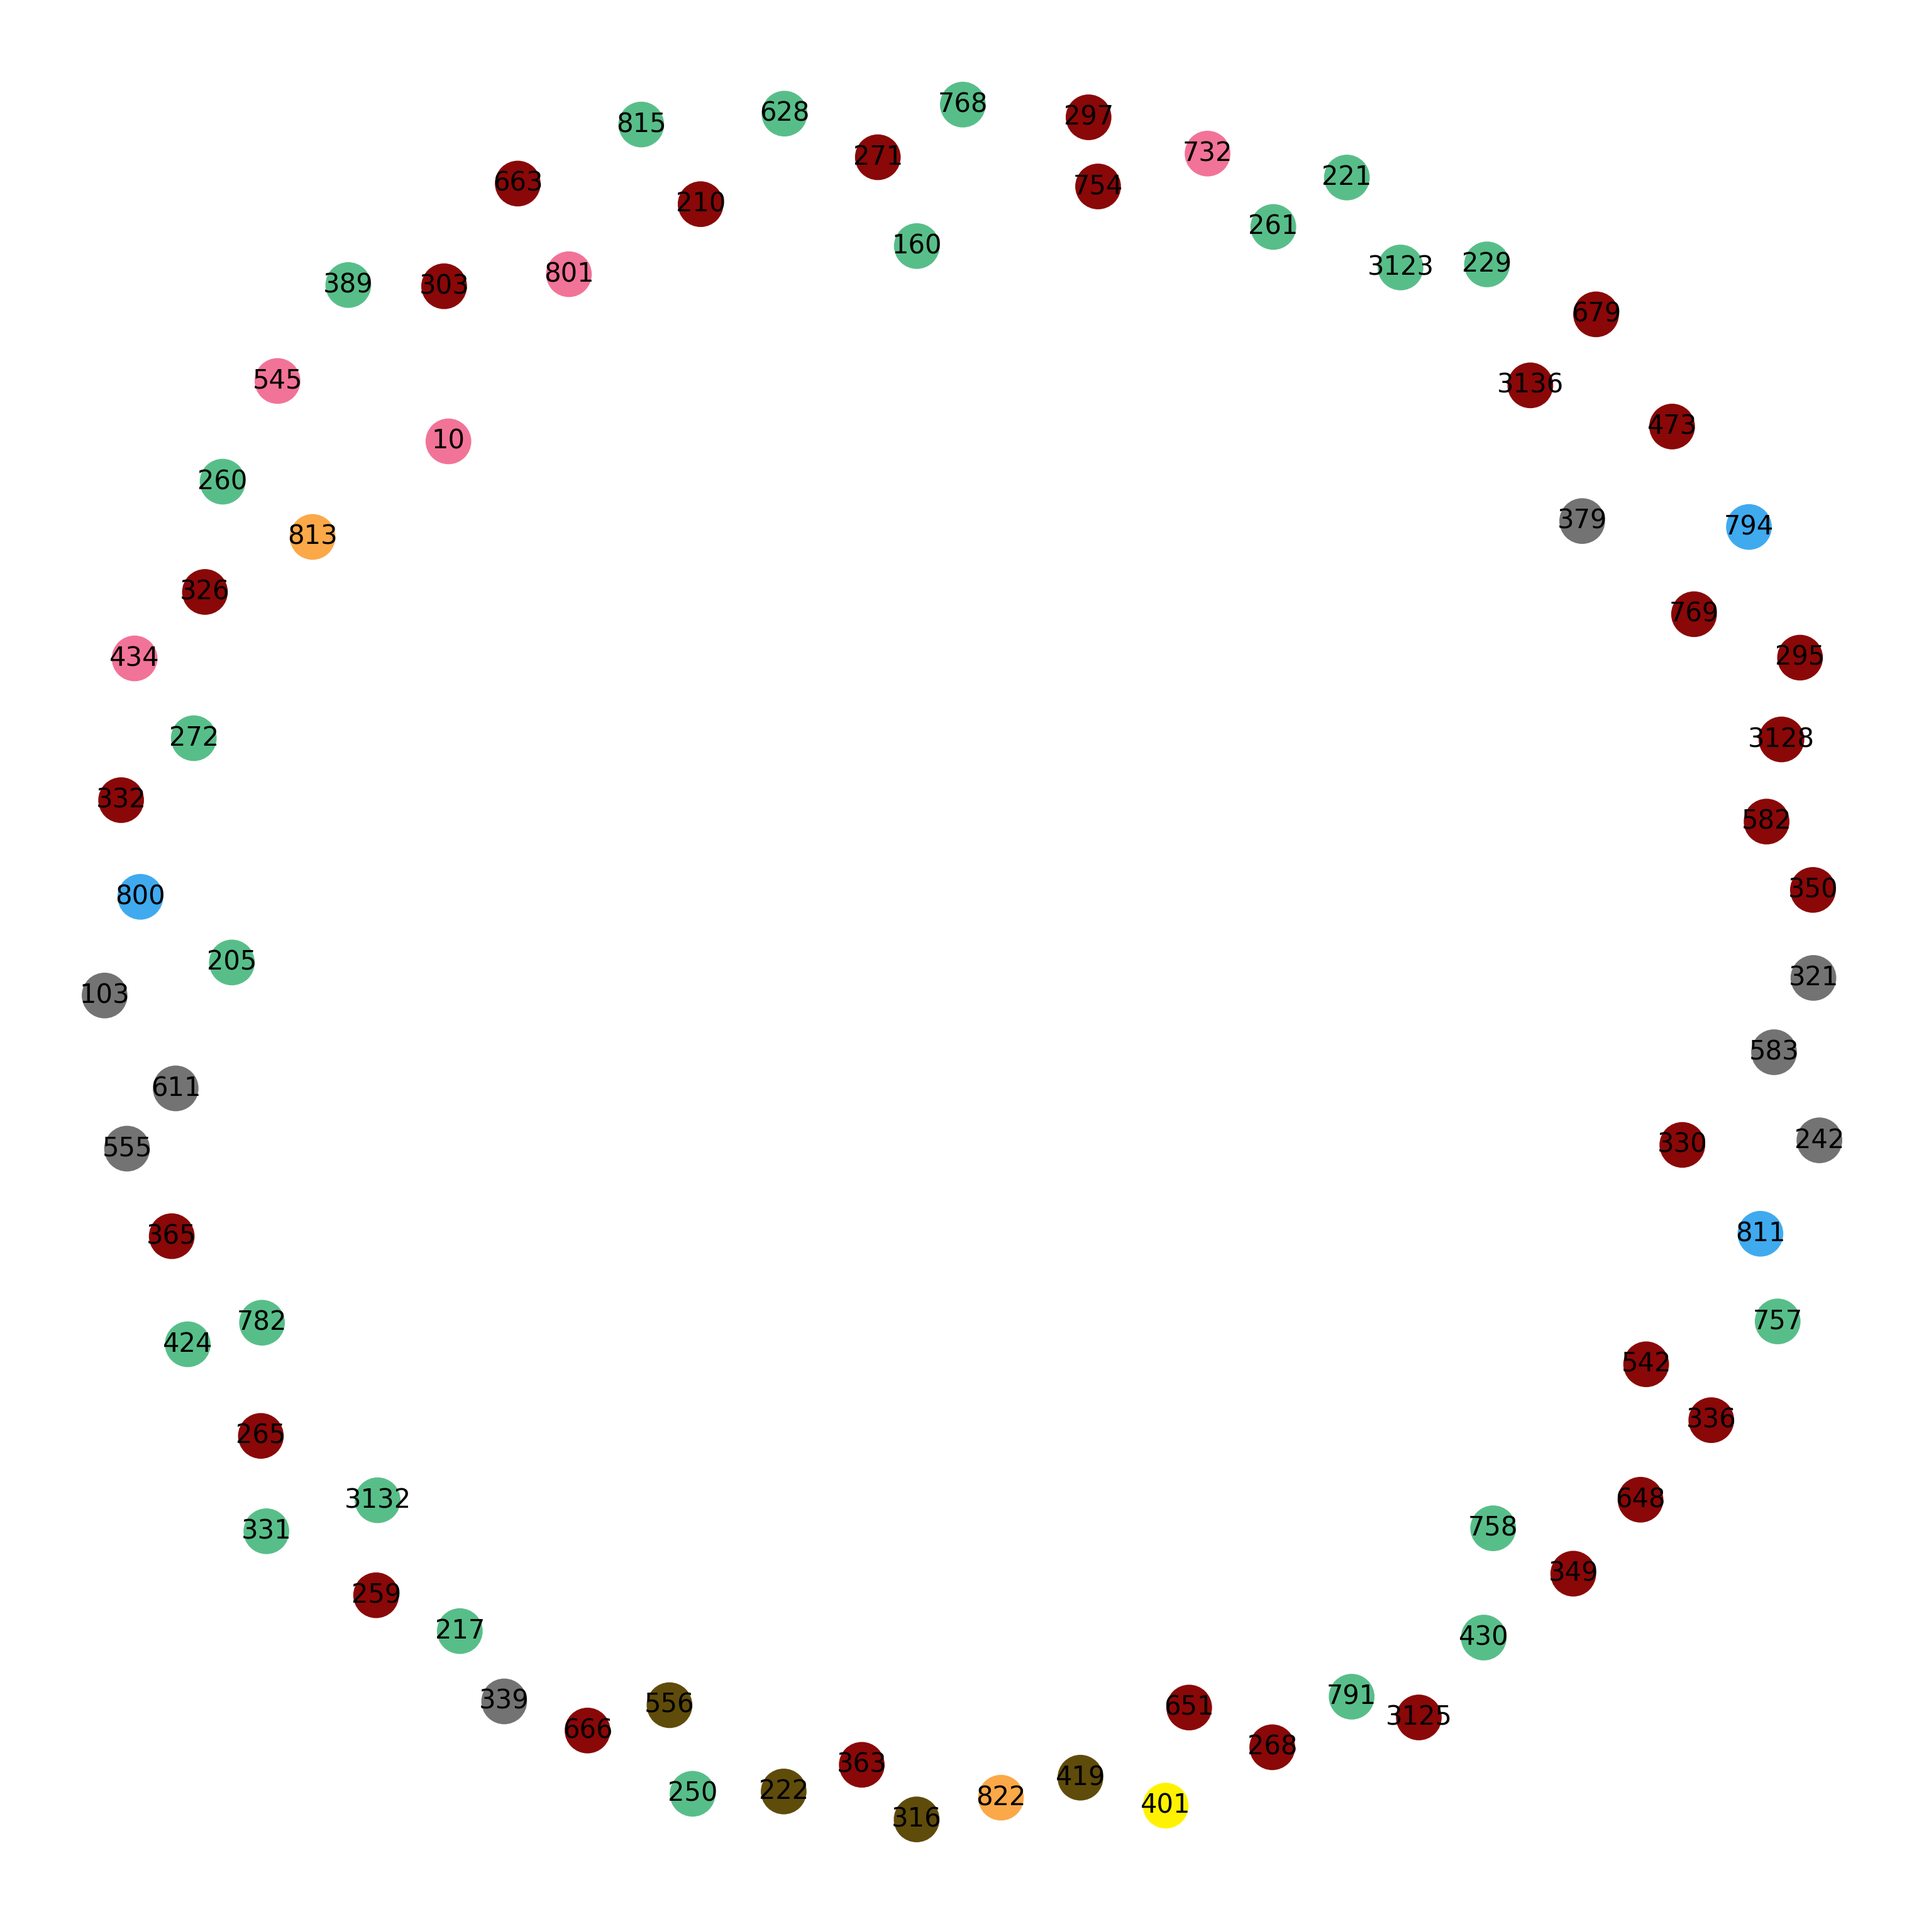
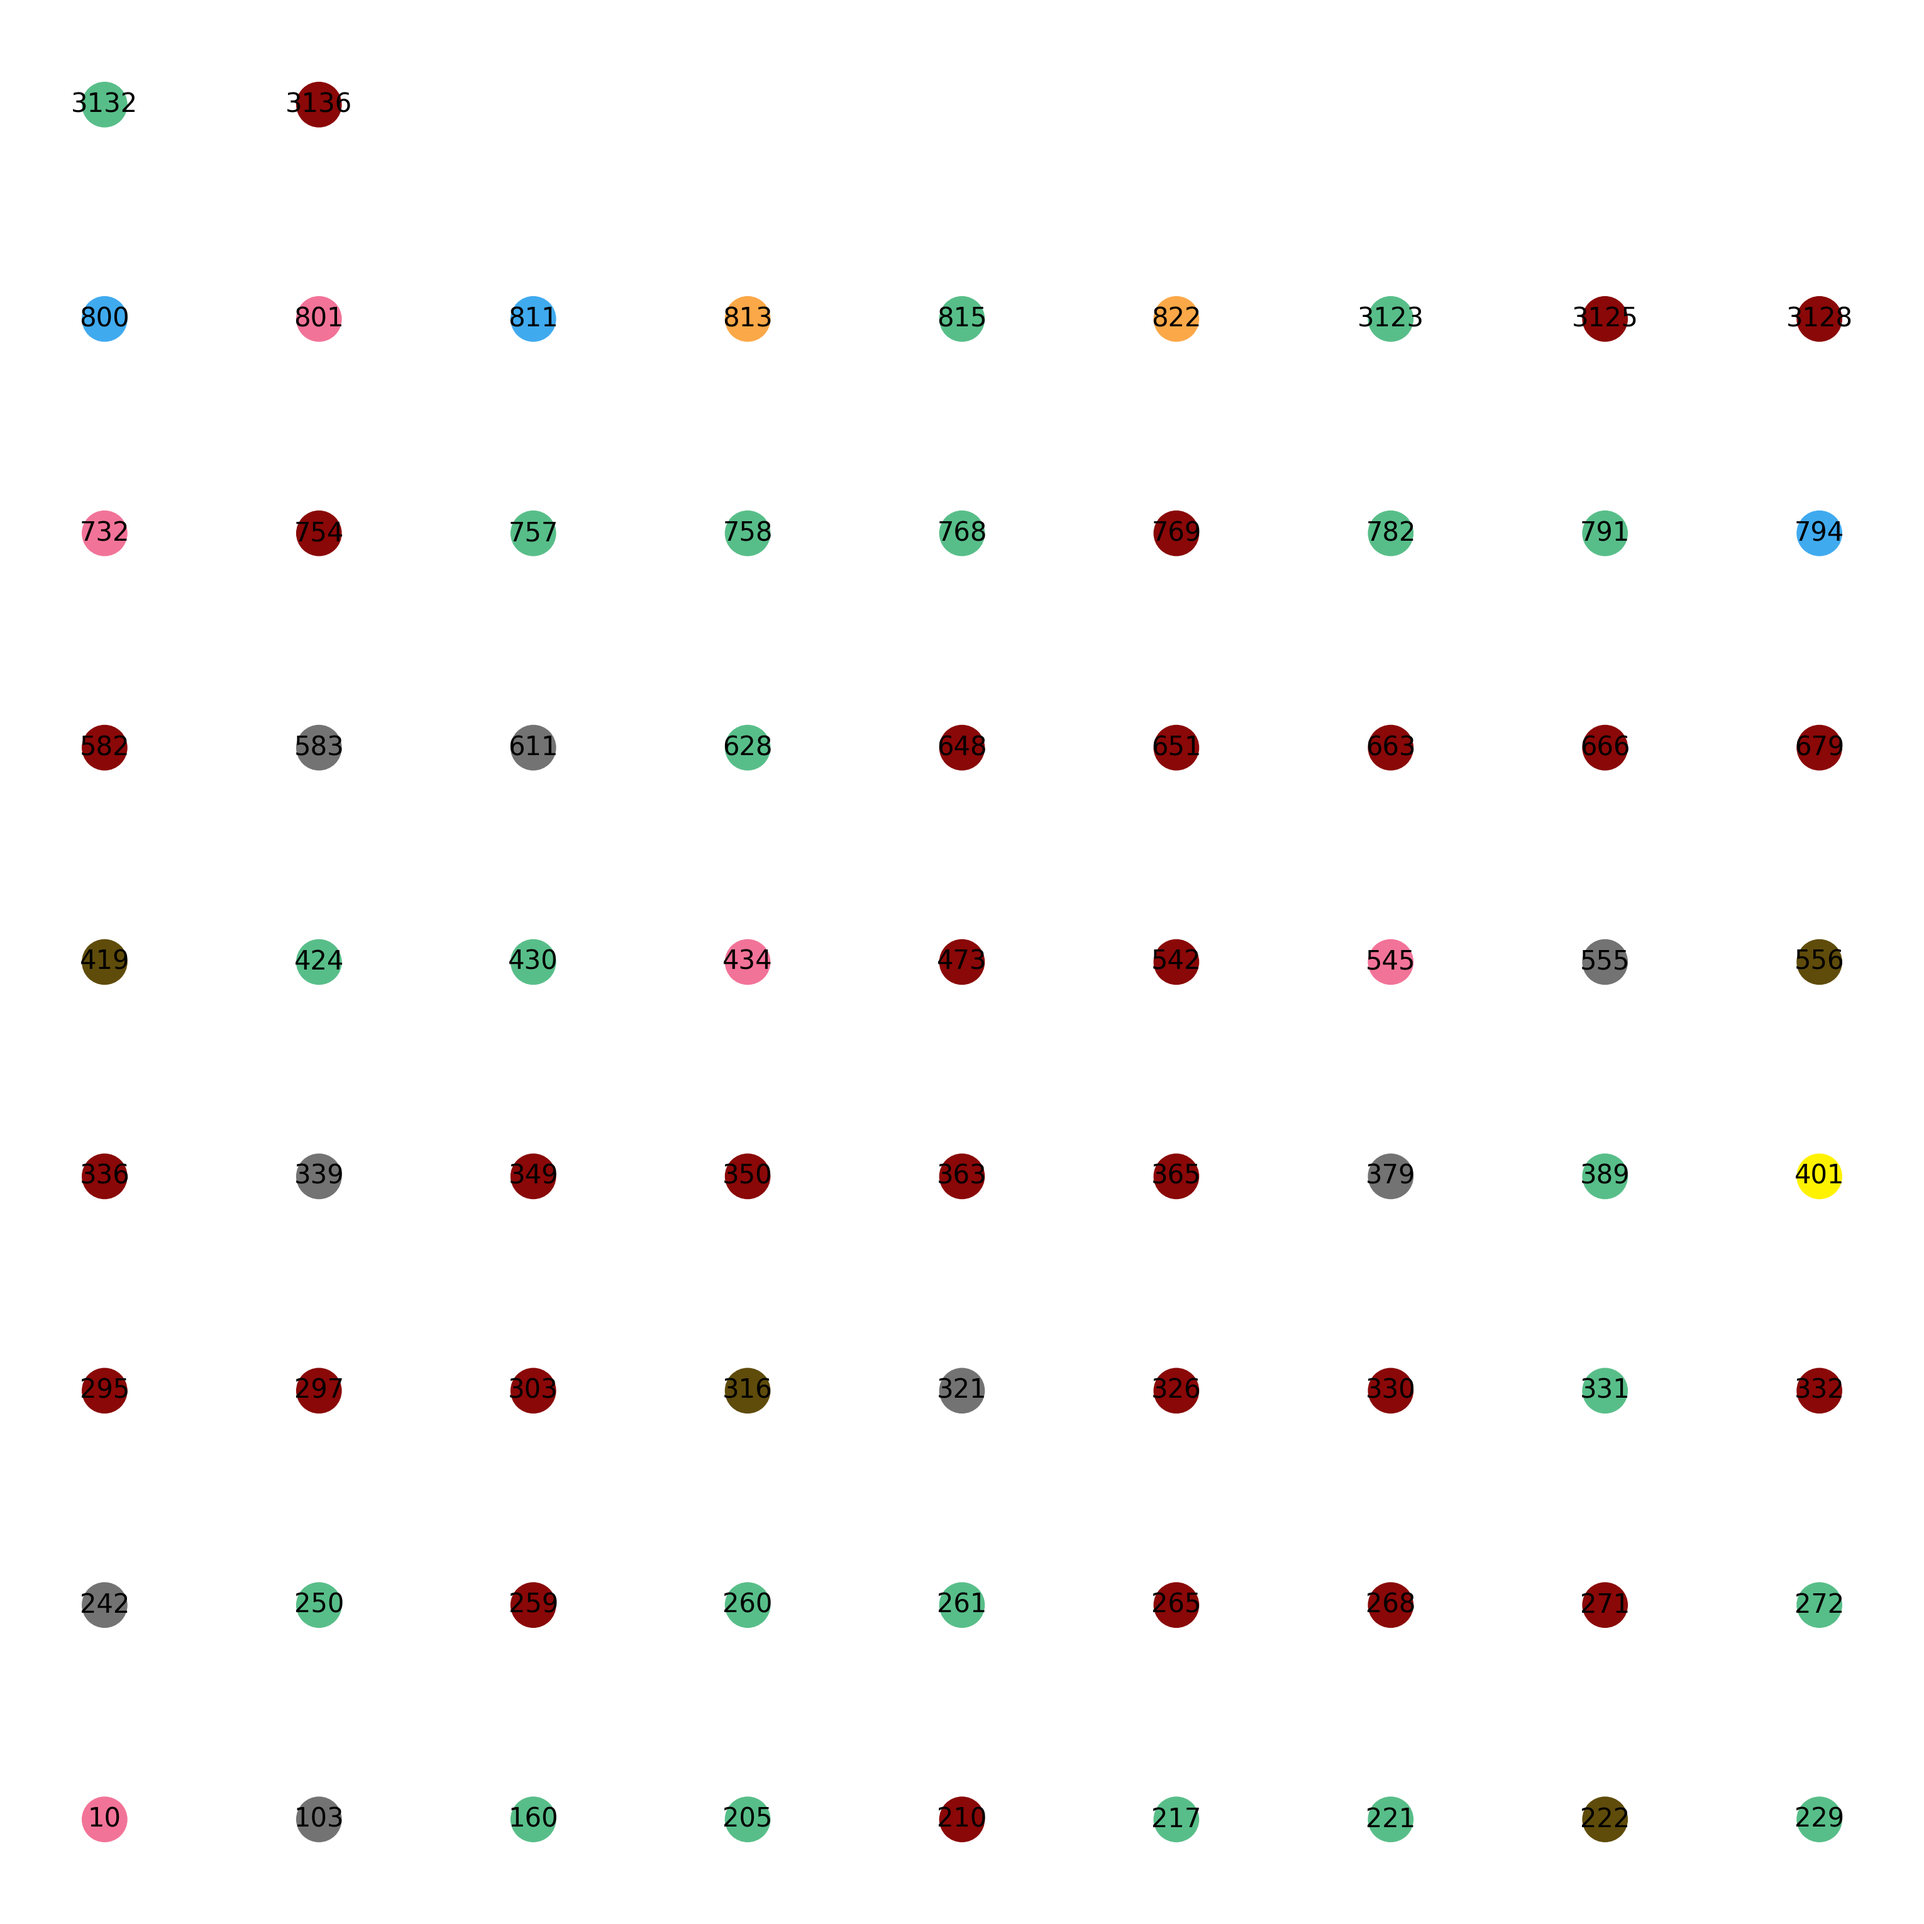
定期スクリプトとDashアプリでサブグラフのノード位置を統一 komo-fr/notes#366

diff --git a/src/dash_app/components/subgraph_network_graph.py b/src/dash_app/components/subgraph_network_graph.py
@@ -88,9 +88,10 @@ def _calculate_node_positions(subgraph: nx.DiGraph) -> dict[int, tuple[float, fl
     )
 
     # 座標を変換（NetworkXは{node: array([x, y])}形式）
+    # Cytoscape.jsはY軸が下向き正、Matplotlibは上向き正のため、Y座標を反転
     positions = {}
     for node, coords in pos.items():
-        positions[node] = (float(coords[0]), float(coords[1]))
+        positions[node] = (float(coords[0]), -float(coords[1]))
 
     return positions
 

diff --git a/src/graph/community_detector.py b/src/graph/community_detector.py
@@ -242,7 +242,7 @@ def _generate_subgraph_image(
     if subgraph.number_of_edges() == 0:
         pos = calculate_grid_layout(subgraph)
     else:
-        pos = nx.spring_layout(subgraph, threshold=1e-6, k=1, seed=42)
+        pos = nx.spring_layout(subgraph, threshold=1e-6, k=1, seed=42, scale=200)
 
     # ノードカラーを取得
     node_colors = []
